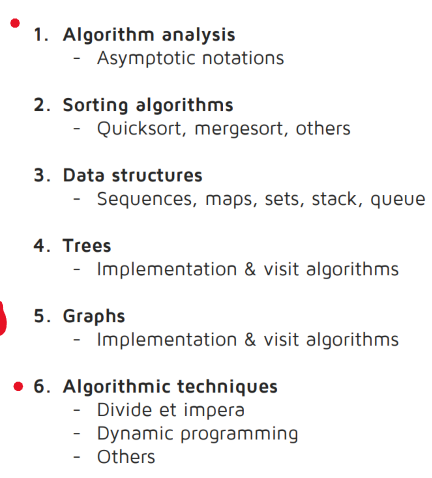
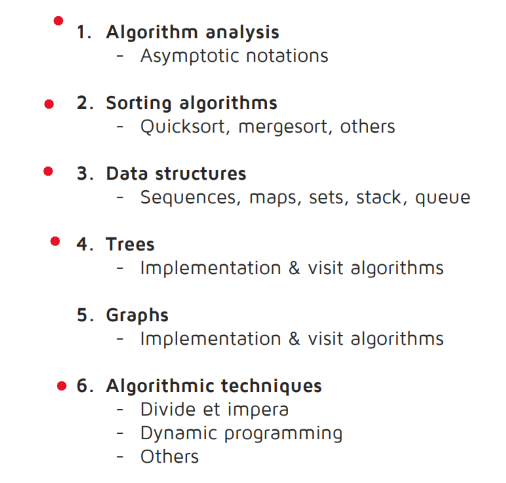
binary trees

diff --git a/README.md b/README.md
@@ -6,7 +6,7 @@ I'm using Agarwal book for the theory while the Grookins book to get the algorit
 
 ## Prerequisites
 - <b>Mandatory</b>: Jupyter Notebook or Jupyter extension on Visual studio Code
-- <b>Recommended</b>: Install Git to get updates daily. Clone the repository and run "git fetch" periodicaly
+- <b>Recommended</b>: Install Git to get updates daily. Clone the repository and run "git fetch / git pull" periodicaly
 
 ## Structure
 - notes (ipynb files in the main folder) these are the notes
